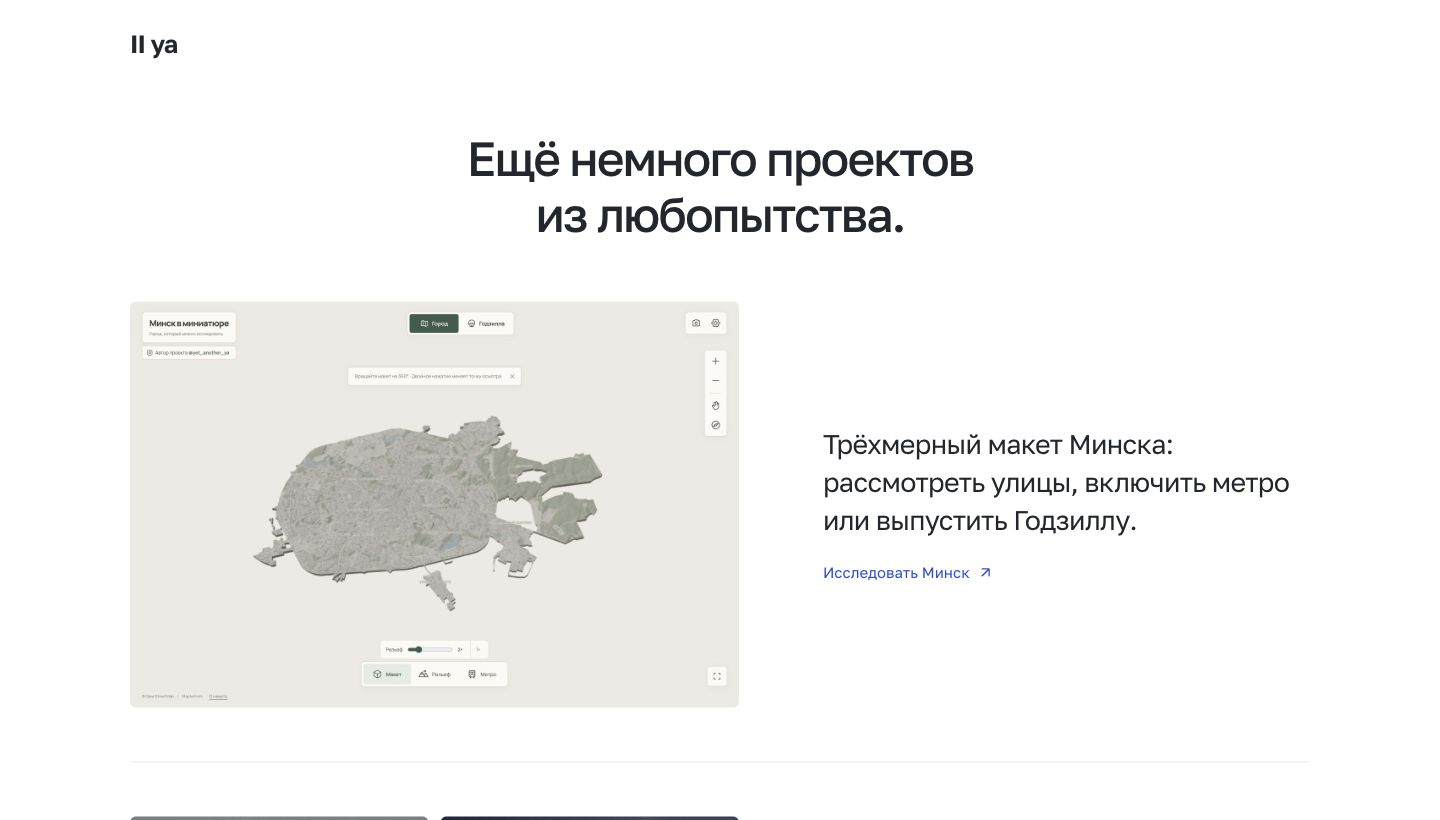
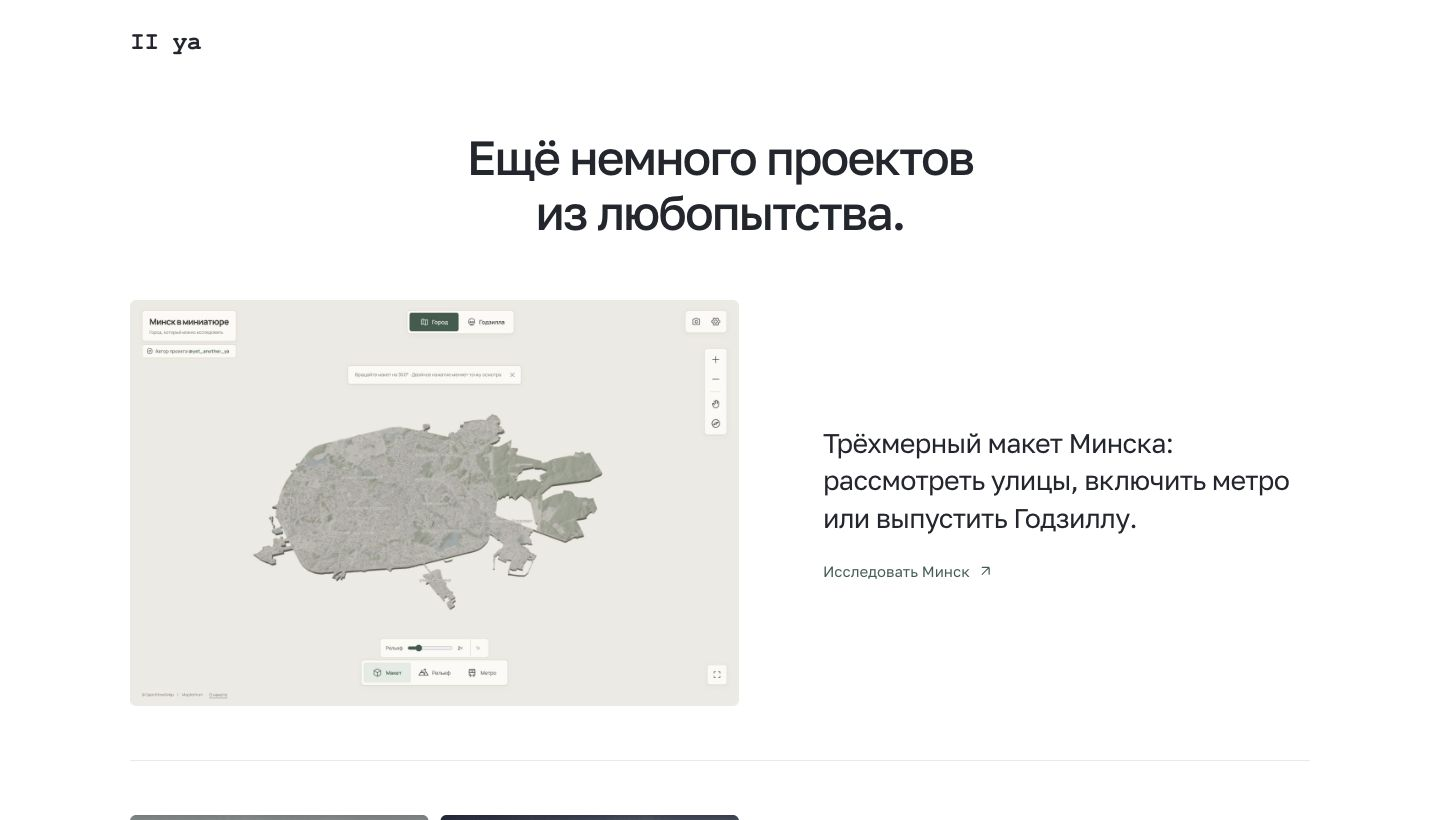
Publish portfolio from c4362ecbca3e98f35be8e36b89d2311f3558af36

diff --git a/index.html b/index.html
@@ -9,7 +9,7 @@
   <meta property="og:description" content="Минск в миниатюре, миры Шагала, Блізка и Візалёк.">
   <meta property="og:url" content="https://ilyhryh.github.io/yet-another-ya-pages/"><meta property="og:image" content="https://ilyhryh.github.io/yet-another-ya-pages/share.jpg">
   <meta name="twitter:card" content="summary_large_image">
-  <link rel="icon" href="./favicon.svg" type="image/svg+xml"><link rel="stylesheet" href="./style.css">
+  <link rel="icon" href="./favicon.png" type="image/png" sizes="32x32"><link rel="apple-touch-icon" href="./icon.png" sizes="192x192"><link rel="stylesheet" href="./style.css">
   <link rel="preload" href="./fonts/golos-cyrillic.woff2" as="font" type="font/woff2" crossorigin>
   <script type="application/ld+json">{"@context":"https://schema.org","@type":"CollectionPage","name":"II ya — проекты Ильи из любопытства","url":"https://ilyhryh.github.io/yet-another-ya-pages/","description":"Авторская коллекция: Минск в миниатюре, миры Шагала, Блізка и Візалёк.","mainEntity":{"@type":"ItemList","itemListElement":[{"@type":"ListItem","position":1,"name":"Минск в миниатюре","description":"Трёхмерный макет Минска: рассмотреть улицы, включить метро или выпустить Годзиллу.","url":"https://minsk-miniature.netlify.app/"},{"@type":"ListItem","position":2,"name":"Миры Шагала","description":"Два мира по мотивам картин Шагала. По Витебску можно гулять и летать над крышами.","url":"https://chagall-world-vitebsk.netlify.app/"},{"@type":"ListItem","position":3,"name":"Блізка","description":"Игра на знание Беларуси. Угадай, где находится город или достопримечательность, и отметь на карте.","url":"https://blizka-belarus.netlify.app/"},{"@type":"ListItem","position":4,"name":"Візалёк","description":"Помощник для шенгенской визы из Беларуси. Заполняет анкету и собирает список документов для твоей поездки.","url":"https://vizalek-belarus.netlify.app/"}]}}</script>
 </head><body>

diff --git a/style.css b/style.css
@@ -20,7 +20,7 @@
 :root {
   --ink: #24262e;
   --muted: #606574;
-  --blue: #3158ed;
+  --accent: #3f5f51;
   --line: #e7e9ee;
   --gutter: clamp(22px, 5vw, 72px);
 }
@@ -44,12 +44,12 @@ a {
   -webkit-tap-highlight-color: transparent;
 }
 a:focus-visible {
-  outline: 3px solid var(--blue);
+  outline: 3px solid var(--accent);
   outline-offset: 6px;
 }
 ::selection {
-  background: #d3ddff;
-  color: #1a2c6c;
+  background: #e1e8e3;
+  color: #223e31;
 }
 img {
   display: block;
@@ -83,7 +83,7 @@ img {
   padding: 12px 16px;
   transform: translateY(-200%);
   z-index: 10;
-  background: var(--blue);
+  background: var(--accent);
   color: #fff;
   border-radius: 8px;
 }
@@ -99,12 +99,13 @@ img {
 }
 .brand {
   display: inline-block;
+  font-family: "Lucida Console", "Courier New", monospace;
   font-size: 25px;
-  font-weight: 650;
+  font-weight: 700;
   letter-spacing: -0.8px;
 }
 .site-footer a:hover {
-  color: var(--blue);
+  color: var(--accent);
 }
 .hero {
   padding-block: 44px 60px;
@@ -190,7 +191,7 @@ h1 {
   display: inline-flex;
   align-items: center;
   gap: 7px;
-  color: #244bd7;
+  color: var(--accent);
   font-size: 15px;
   line-height: 1.5;
 }
